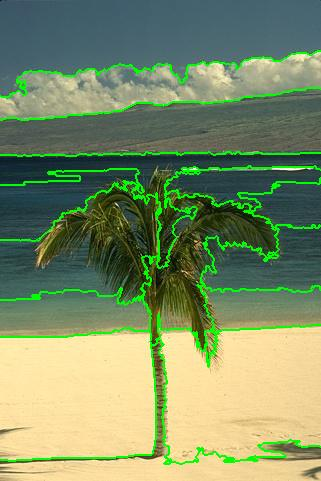
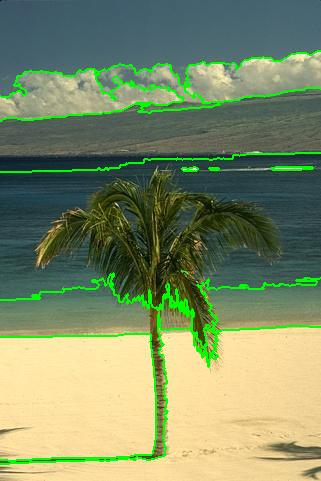
plotting works

diff --git a/src/ga/GeneticAlgorithm.java b/src/ga/GeneticAlgorithm.java
@@ -65,21 +65,22 @@ public class GeneticAlgorithm {
         int counter = 0;
         Individual a = sortedJoined.get(counter);
         front.add(a);
-        while (counter < 5 && a.getFitness() < 1) {
+        while (counter < 4 && a.getFitness() < 1) {
             counter++;
             a = sortedJoined.get(counter);
             front.add(a);
         }
-
         Individual bestInd = sortedJoined.get(0);
-        writeToFile(front);
+        Collections.sort(front, new PlotCompare());
+        String filename = writeToFile(front);
         Main.colorBigAndWrite(loadImage, 1, bestInd);
         Main.colorBigAndWrite(loadImage, 2, bestInd);
         try {
             String filePath = new File("").getAbsolutePath();
             ProcessBuilder pb = new ProcessBuilder(
                     filePath+"/myshellScript.sh",
-                    ""+Main.IMAGE_NUMBER, ""+bestInd.findNumberOfSegments());
+                    ""+Main.IMAGE_NUMBER, ""+bestInd.findNumberOfSegments(),
+                    filePath+"/"+filename);
             System.out.println("starting shell script");
             Process p = pb.start();
         }
@@ -108,46 +109,43 @@ public class GeneticAlgorithm {
         return bestInd;
     }
 
-    private void writeToFile(ArrayList<Individual> individuals) {
+    private String writeToFile(ArrayList<Individual> individuals) {
         BufferedWriter writer = null;
+        String fileName = "";
         try {
             //create a temporary file
-            String s = ""+Main.IMAGE_NUMBER;
+            fileName = ""+Main.IMAGE_NUMBER;
             String[] r = new String[4];
             if (Main.WHICH_SCORES[0]) {
-                s += "-" + "dev";
+                fileName += "-" + "dev";
                 r[0] = "overallDeviation";
             }
             if (Main.WHICH_SCORES[1]) {
-                s += "-" + "edge";
+                fileName += "-" + "edge";
                 r[1] = "edgeValues";
             }
             if (Main.WHICH_SCORES[2]) {
-                s += "-" + "con";
+                fileName += "-" + "con";
                 r[2] = "connection";
             }
             r[3] = "number of segments";
-            File f = new File(s+".txt");
+            fileName += ".txt";
+            File f = new File(fileName);
             writer = new BufferedWriter(new FileWriter(f));
-            s = "";
-            for (int i = 0; i < Main.WHICH_SCORES.length; i++) {
-                if (Main.WHICH_SCORES[i]) {
-                    s += r[i] +"    ";
-                }
-            }
-            s = s.trim();
+            String string = "";
+            string = string.trim();
             for (int i = 0; i < individuals.size(); i++) {
-                s += "\n";
                 for (int j = 0; j < Main.WHICH_SCORES.length; j++) {
                     if (Main.WHICH_SCORES[j]) {
-                        s += individuals.get(i).getScores()[j];
-                        s += "  ";
+                        string += individuals.get(i).getScores()[j];
+                        string += "  ";
                     }
                 }
-                s += individuals.get(i).getNumberOfSegments();
+                string += individuals.get(i).getNumberOfSegments();
+                string += "\n";
             }
 
-            writer.write(s);
+            writer.write(string);
         } catch (Exception e) {
             e.printStackTrace();
         } finally {
@@ -157,6 +155,7 @@ public class GeneticAlgorithm {
             } catch (Exception e) {
             }
         }
+        return fileName;
     }
 
     private void selection() {

diff --git a/plotFront.py b/plotFront.py
@@ -1,7 +1,21 @@
 import matplotlib.pyplot as plt
+import numpy as np
+import sys
 
-print("Hello word")
+# Get the total number of args passed to the demo.py
+total = len(sys.argv)
 
-plt.plot([1,2,3,4])
-plt.ylabel('some numbers')
+# Get the arguments list
+cmdargs = str(sys.argv)
+
+# Print it
+print ("The total numbers of args passed to the script: %d " % total)
+print ("Args list: %s " % cmdargs)
+
+fileNameIndex = 1
+col1 = sys.argv[fileNameIndex].split("-")[1]
+col2 = sys.argv[fileNameIndex].split("-")[2]
+
+plt.plotfile(sys.argv[fileNameIndex], delimiter=' ', cols=(0, 1),
+             names=(col1, col2), marker='o')
 plt.show()

diff --git a/src/ga/PlotCompare.java b/src/ga/PlotCompare.java
@@ -1,0 +1,22 @@
+package ga;
+
+import inputOutput.Main;
+
+import java.util.Comparator;
+
+/**
+ * Created by johan on 23/03/17.
+ */
+public class PlotCompare implements Comparator<Individual> {
+
+    public int compare(Individual a, Individual b) {
+        for (int i = 0; i < Main.WHICH_SCORES.length; i++) {
+            int value = (int) ((b.getScores()[i] -
+                    a.getScores()[i])*100);
+            if (Main.WHICH_SCORES[i]) {
+                return value;
+            }
+        }
+        return 0;
+    }
+}

diff --git a/src/inputOutput/Main.java b/src/inputOutput/Main.java
@@ -24,7 +24,7 @@ public class Main extends Application {
 
     public static final boolean[] WHICH_SCORES = new boolean[3];
     static {
-        WHICH_SCORES[0] = true;
+        WHICH_SCORES[0] = false;
         WHICH_SCORES[1] = true;
         WHICH_SCORES[2] = true;
     }
